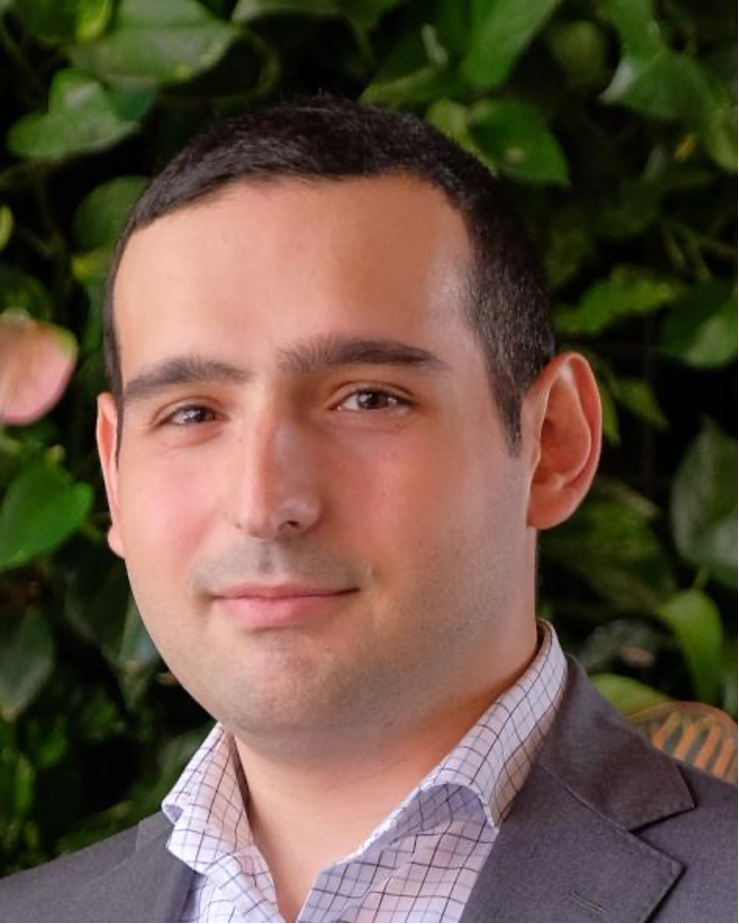
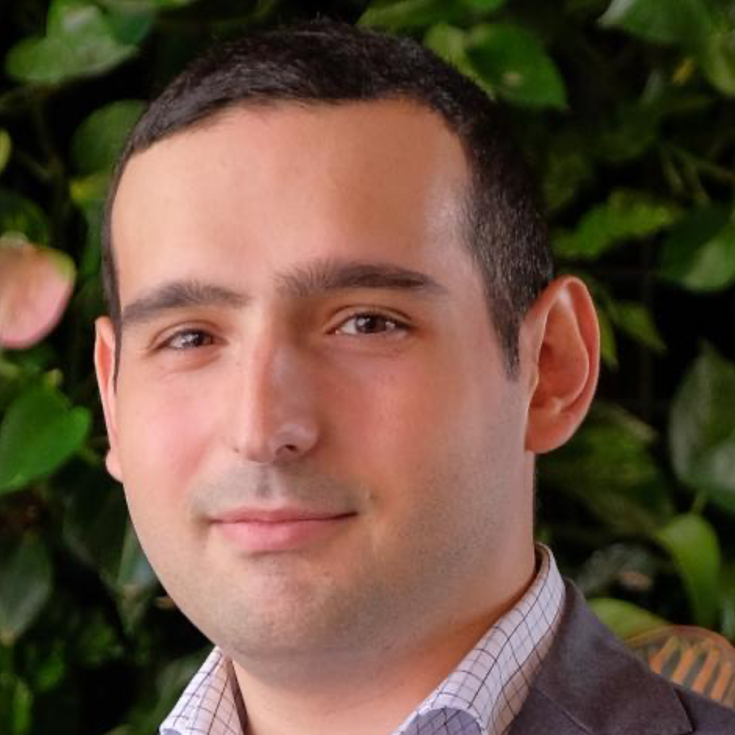
Fully updated square fellow images

diff --git a/assets/css/_custom.scss b/assets/css/_custom.scss
@@ -14,19 +14,19 @@
     }
 
     .card-img-wrapper {
-        height: 250px;               // fixed height for all images
-        display: flex;
-        justify-content: center;
-        align-items: center;
-        background-color: #ffffff;   // letterbox fill (white)
-        overflow: hidden;
+      width: 100%;
+      aspect-ratio: 1 / 1;
+      overflow: hidden;
+      display: flex;
+      align-items: center;
+      justify-content: center;
     }
-      
+    
     .card-img-fixed {
-        max-height: 100%;
-        max-width: 100%;
-        object-fit: contain;         // preserve aspect ratio
-    }
+      width: 100%;
+      height: 100%;
+      object-fit: cover;
+    }    
     
     .card-institute {
         font-style: italic;
